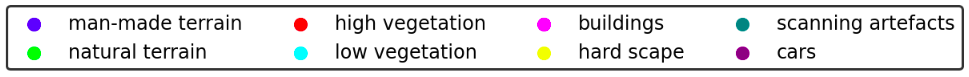
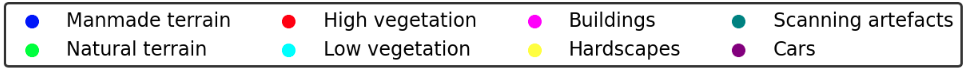
benchmark changes + results p1

diff --git a/project-report/chapters/ch06_results.tex b/project-report/chapters/ch06_results.tex
@@ -33,7 +33,7 @@
         \end{tabular}%
         }
         \caption{Illustration of performance of RandLA-Net on Semantic3D over ensemble size. meanIOU, IOU per-class and overall accuracy are represented here.
-        C1 to C8 are the classes of Semantic3D which are Manmadeterrain, Naturalterrain, Highvegetation, Lowvegetation, Buildings, Hardscapes, Scanningartifacts, and Cars.}
+        C1 to C8 are the classes of Semantic3D which are Manmade terrain, Natural terrain, High vegetation, Low vegetation, Buildings, Hardscapes, Scanning artifacts, and Cars.}
         \label{tab:ensemble_eval}
     \end{table} 
 
@@ -63,7 +63,7 @@
     % %%%%%% Ensembles output here %%%%%%
     \begin{figure*}[h!]
         \begin{tabular}{cccc}
-            1 & 5 & 10 \\
+            Ensmeble Size-1 & Ensemble Size-5 & Ensemble Size-10 \\
             \includegraphics[width=0.30\textwidth, height=0.15\textheight]{images/seg_output/deep_ensembles/1_1.pdf} &
             \includegraphics[width=0.30\textwidth, height=0.15\textheight]{images/seg_output/deep_ensembles/1_5.pdf}& 
             \includegraphics[width=0.30\textwidth, height=0.15\textheight]{images/seg_output/deep_ensembles/1_10.pdf}\\
@@ -76,7 +76,7 @@
         \caption{Performance improvements of Deep Ensembles on Semantic3D dataset with each column representing the ensemble size of 1, 5 and 10 respectively.}
         \label{fig:deepensemble_improv}
     \end{figure*}
-    From Table~\ref{tab:ensemble_eval}, we infer that classes Low vegetation and Hardscapes have lower per-class IoU scores, this is because of lack of training data.
+    From Table~\ref{tab:ensemble_eval}, we infer that classes ``Low vegetation'' and ``Hardscapes'' have lower per-class IoU scores, this is because these classes are underrepresented in the dataset.
     From Table~\ref{tab:ensemble_eval}, we also infer that the Deep Ensembles improve the model's overall performance in terms of meanIoU and Accuracy.
     With an ensemble size of 10, we observe a 2\% increment on meanIoU.
     An increase in ensemble size also results in an improvement in per-class IoU performance.
@@ -86,9 +86,9 @@
 %%%%%%%%%%%%%%%%%%%%%%%%%%%%%%%%%%%%%%%%%%%%%%%%%%%%%%%%%%%%%%%%%%%%%%%%%%%%%%%
     \section{Flipout-Semantic3D}
     In this experiment, we trained a Flipout version of RandLA-Net as described in Section~\ref{sec:flipout_setup} over the Semantic3D dataset.
-    Like Deep Ensembles, we performed 20 forward passes over the Flipout versioned RandLA-Net and averaged the predictions to obtain final predictions.
-    Table~\ref{tab:flipout_eval} describes the performance of Flipout versioned RandLA-Net using meanIoU, per-class IoU and Accuracy.
-    Figure~\ref{fig:flipout_vis_sem3d} depicts the predictions of the Flipout versioned RandLA-Net visually.
+    Like Deep Ensembles, we performed 20 forward passes over the Flipout-versioned RandLA-Net and averaged the predictions to obtain final predictions.
+    Table~\ref{tab:flipout_eval} describes the performance of Flipout-versioned RandLA-Net using meanIoU, per-class IoU and Accuracy.
+    Figure~\ref{fig:flipout_vis_sem3d} depicts the predictions of the Flipout-versioned RandLA-Net visually.
     \begin{table}[h!]
         \resizebox{\textwidth}{!}{%
         \begin{tabular}{c|c|cccccccc|c}
@@ -102,8 +102,8 @@
         20& 69.87 & 94.38&80.18&83.80&23.57&87.72&39.84&57.92&91.57&90.40\\
         \end{tabular}%
         }
-        \caption{Illustration of performance of Flipout versioned RandLA-Net on Semantic3D dataset. meanIOU, IOU per-class and overall accuracy are represented here.
-        C1 to C8 are the classes of Semantic3D which are Manmadeterrain, Naturalterrain, Highvegetation, Lowvegetation, Buildings, Hardscapes, Scanningartifacts, and Cars.}
+        \caption{Illustration of performance of Flipout-versioned RandLA-Net on Semantic3D dataset. meanIOU, IOU per-class and overall accuracy are represented here.
+        C1 to C8 are the classes of Semantic3D which are Manmade terrain, Natural terrain, High vegetation, Low vegetation, Buildings, Hardscapes, Scanning artifacts, and Cars.}
         \label{tab:flipout_eval}
     \end{table}
     \begin{figure*}[h!]
@@ -127,7 +127,7 @@
         \label{fig:flipout_vis_sem3d}
     \end{figure*}   
 
-    From Table~\ref{tab:flipout_eval}, we infer that the Flipout versioned RandLA-Net has a similar performance to the original RandLA-Net model proposed in \cite{Hu_2020_CVPR_Randla} and also Deep Ensembles with ensemble size one.
+    From Table~\ref{tab:flipout_eval}, we infer that the Flipout-versioned RandLA-Net has a similar performance to the original RandLA-Net model proposed in \cite{Hu_2020_CVPR_Randla} and also Deep Ensembles with ensemble size one.
     We also observe a significant improvement in the Hardscapes class represented as C6 in Table~\ref{tab:flipout_eval}.
     There is a decrement in performance of classes Lowvegetation represented as C4 and Scanningartifacts represented as C7 in Table~\ref{tab:flipout_eval}, keeping the overall meanIoU same.
     % \textcolour{red}{Add the images of flipout performance here same as figures in deep ensembles}
@@ -138,9 +138,9 @@
     In this section, we study the predictions of the RandLA-Net model on the S3DIS (Out-Of-Distribution) dataset using Deep Ensembles and Flipout.
     We also compare the distribution of Maximum Softmax Probability (MSP) and entropy scores for Semantic3D and S3DIS datasets.
 
-    Figure~\ref{fig:de_s3dis_vis} depict the predictions of the RandLA-Net model and Flipout versioned RandLA-Net.
+    Figure~\ref{fig:de_s3dis_vis} depict the predictions of the RandLA-Net model and Flipout-versioned RandLA-Net.
     We observe that most objects, such as ceilings and bookshelves, are labelled as buildings when using Deep Ensembles.
-    We also observe that most point clouds are labelled as hardscapes class when using Flipout versioned RandLA-Net.
+    We also observe that most point clouds are labelled as hardscapes class when using Flipout-versioned RandLA-Net.
     The classifications on S3DIS datasets are in triangles because of the property of the scanner.
     As discussed in Section~\ref{sec:dataset_s3dis}, data collected from the Matterport scanner is represented as triangular mesh, and then a point cloud is extracted from this mesh.
 
@@ -192,7 +192,7 @@
         \caption{}
         \label{fig:msp_flipout}
         \end{subfigure}
-        \caption{Graph representing the mean probability value as a dot for Semantic3D in green and S3DIS (OOD) in red. The variance is represented as the error bars.  (a) represents the mean probability value for various ensemble sizes and (b) represents the mean probability value for multiple forward passes on Flipout model.}
+        \caption{Graph representing the mean probability value as a dot for Semantic3D (ID) in green and S3DIS (OOD) in red. The variance is represented via the error bars.  (a) represents the mean probability value for various ensemble sizes and (b) represents the mean probability value for multiple forward passes on Flipout model.}
     \end{figure}
 
     From Figure~\ref{fig:msp_ensembles}, we can infer that as the increase in ensemble size, the mean probability of the ID (Semantic3D) dataset remains stable.
@@ -337,7 +337,7 @@
         \caption{}
         \label{fig:ent_flipout}
         \end{subfigure}
-        \caption{Graph representing the mean entropy value as a dot for Semantic3D in green and S3DIS (OOD) in red. The variance is represented as the error bars.  (a) represents the mean entropy value for various ensemble sizes and (b) represents the mean entropy value for multiple forward passes on Flipout model.}
+        \caption{Graph representing the mean entropy value as a dot for Semantic3D (ID) in green and S3DIS (OOD) in red. The variance is represented via the error bars.  (a) represents the mean entropy value for various ensemble sizes and (b) represents the mean entropy value for multiple forward passes on Flipout model.}
     \end{figure}
     \begin{figure*}[h!]
         \begin{tabular}{ccc}
@@ -619,7 +619,7 @@
         \end{tabular}
         \includegraphics[scale=0.45]{images/ent_legend.pdf}
         % \includegraphics[scale=0.45]{images/legend.png}
-        \caption{Representation of entropy map and its legend in first column and OOD map in second column generated using Deep Ensembles (ensemble size of 10) for S3DIS (OOD) dataset. In OOD map green represents ID points and red represents OOD points.}
+        \caption{Representation of entropy map and its legend in first column and OOD map in second column generated using Deep Ensembles (Ensemble size of 10) for S3DIS (OOD) dataset. In OOD map green represents ID points and red represents OOD points.}
         \label{fig:de_s3dis_oodmap_ent}
     \end{figure*}
     \begin{figure*}[h!]
@@ -690,11 +690,11 @@
         \end{tabular}%
         }
         \caption{Illustration of performance of RandLA-Net on Semantic3D without colour over number of ensembles. meanIOU, IOU per-class and overall accuracy are represented here.
-        C1 to C8 are the classes of Semantic3D which are Manmadeterrain, Naturalterrain, Highvegetation, Lowvegetation, Buildings, Hardscapes, Scanningartifacts, and Cars.}
+        C1 to C8 are the classes of Semantic3D which are Manmade terrain, Natural terrain, High vegetation, Low vegetation, Buildings, Hardscapes, Scanning artifacts, and Cars.}
         \label{tab:de_sem3dof_eval}
     \end{table}
-    In the comparison of Table~\ref{tab:de_sem3dof_eval} and Table~\ref{tab:ensemble_eval}, we derive that by removing the colours of the ID dataset, we observe a reduction in the meanIoU and Accuracy.
-    We also observe that the class Naturalterrain represented as green colour in Figure~\ref{fig:deepensemble_vis_sem3d_OF} takes a significant blow.
+    In the comparison of Table~\ref{tab:de_sem3dof_eval} and Table~\ref{tab:ensemble_eval}, we learn that by removing the colours of the ID dataset, we observe a reduction in the meanIoU and Accuracy.
+    We also observe that the class Natural terrain represented as green colour in Figure~\ref{fig:deepensemble_vis_sem3d_OF} suffers from significant misclassification.
     This reduction in performance can be correlated with figures in row two of Figure~\ref{fig:deepensemble_vis_sem3d_OF} where the vegetation between the road and fence depicted in the first image is misclassified in the second image.
     Row two also shows the misclassification of a major fence part as a building.
     On further evaluation of such results, we deduce that in case of no colour information, the object's height is one of the significant factors for the classification.
@@ -713,7 +713,7 @@
         \end{tabular}
         \includegraphics[scale=0.45]{images/legend.png}
         \caption{Output predictions of the RandLA-Net over the Semantic3D dataset and Semantic3D without colour
-         dataset using Deep Ensembles (ensemble size of 10).}
+         dataset using Deep Ensembles (Ensemble size of 10).}
         \label{fig:deepensemble_vis_sem3d_OF}
     \end{figure*}
     
@@ -735,8 +735,8 @@
         20& 49.02&79.69&6.65&64.87&23.57&85.62&16.06&47.14&68.56&79.00\\
         \end{tabular}%
         }
-        \caption{Illustration of performance of Flipout versioned RandLA-Net on Semantic3D without colour over number of ensembles. meanIOU, IOU per-class and overall accuracy are represented here.
-        C1 to C8 are the classes of Semantic3D which are Manmadeterrain, Naturalterrain, Highvegetation, Lowvegetation, Buildings, Hardscapes, Scanningartifacts, and Cars.}
+        \caption{Illustration of performance of Flipout-versioned RandLA-Net on Semantic3D without colour over number of ensembles. meanIOU, IOU per-class and overall accuracy are represented here.
+        C1 to C8 are the classes of Semantic3D which are Manmade terrain, Natural terrain, High vegetation, Low vegetation, Buildings, Hardscapes, Scanning artifacts, and Cars.}
         \label{tab:fout_sem3dof_eval}
     \end{table}
 
@@ -770,7 +770,7 @@
     Figure~\ref{fig:msp_ensembles_ood_2} and Figure~\ref{fig:msp_flipout_ood_2} depict the mean probability value for the ID and the OOD dataset along with the variance represented as error bars for Deep Ensembles and Flipout respectively.
     Figure~\ref{fig:de_probmap_vis_sem3d_OF} and Figure~\ref{fig:fout_probmap_vis_sem3d_OF} represent the probability map of ID and OOD datasets for Deep Ensembles and Flipout respectively.
 
-    From the plots represented in Figure~\ref{fig:msp_ensembles_ood_2}, we observe that ID has a higher mean probability with lower variance decreasing till ensemble size of 10 and then stabilizing.
+    From the plots represented in Figure~\ref{fig:msp_ensembles_ood_2}, we observe that ID has a higher mean probability with lower variance decreasing until ensemble size of 10 and then stabilizing.
     Whereas for the OOD dataset represented in red lines, we observe a bit lower mean probability and higher variance with much overlap with the ID probability values.
     A plot for Flipout represented in Figure~\ref{fig:msp_flipout_ood_2} has a similar distribution of probability values.
     The difference in mean probability between ID and OOD for Flipout is slight and similar variance.
@@ -792,7 +792,7 @@
         \caption{}
         \label{fig:msp_flipout_ood_2}
         \end{subfigure}
-        \caption{Graph representing the mean probability value as a dot for Semantic3D in green and Semantic3D without colour (OOD) in red. The variance is represented as the error bars.  (a) represents the mean probability value for various ensemble sizes and (b) represents the mean probability value for multiple forward passes on Flipout model.}
+        \caption{Graph representing the mean probability value as a dot for Semantic3D (ID) in green and Semantic3D without colour (OOD) in red. The variance is represented via the error bars.  (a) represents the mean probability value for various ensemble sizes and (b) represents the mean probability value for multiple forward passes on Flipout model.}
     \end{figure}
     \begin{figure*}[h!]
         \centering
@@ -808,7 +808,7 @@
             \includegraphics[width=0.33\textwidth, height=0.18\textheight]{images/sem3d_of/de_prob_sem3d_of_3.pdf}\\
         \end{tabular}
         \includegraphics[scale=0.45]{images/prob_legend.pdf}
-        \caption{Per point probability comparison between Semantic3D (ID) and Semantic3D without colour (OOD) dataset estimated using Deep Ensembles (ensemble size of 10)}
+        \caption{Per point probability comparison between Semantic3D (ID) and Semantic3D without colour (OOD) dataset estimated using Deep Ensembles (Ensemble size of 10)}
         \label{fig:de_probmap_vis_sem3d_OF}
     \end{figure*}
     \begin{figure*}[h!]
@@ -856,7 +856,7 @@
         \caption{}
         \label{fig:ent_flipout_ood_2}
         \end{subfigure}
-        \caption{Graph representing the mean entropy value as a dot for Semantic3D in Semantic3D without colour and S3DIS (OOD) in red. The variance is represented as the error bars.  (a) represents the mean entropy value for various ensemble sizes and (b) represents the mean entropy value for multiple forward passes on Flipout model.}
+        \caption{Graph representing the mean entropy value as a dot for Semantic3D in Semantic3D without colour and S3DIS (OOD) in red. The variance is represented via the error bars.  (a) represents the mean entropy value for various ensemble sizes and (b) represents the mean entropy value for multiple forward passes on Flipout model.}
     \end{figure}
     \begin{figure*}[h!]
         \centering
@@ -872,7 +872,7 @@
             \includegraphics[width=0.33\textwidth, height=0.18\textheight]{images/sem3d_of/de_ent_sem3d_of_3.pdf}\\
         \end{tabular}
         \includegraphics[scale=0.45]{images/ent_legend.pdf}
-        \caption{Per point entropy comparison between Semantic3D (ID) and Semantic3D without colour (OOD) dataset estimated using Deep Ensembles (ensemble size of 10)}
+        \caption{Per point entropy comparison between Semantic3D (ID) and Semantic3D without colour (OOD) dataset estimated using Deep Ensembles (Ensemble size of 10)}
         \label{fig:de_entmap_vis_sem3d_OF}
     \end{figure*}
     \begin{figure*}[h!]
@@ -949,7 +949,7 @@
             \includegraphics[width=0.33\textwidth, height=0.18\textheight]{images/ood_imgs/sem3d_of/prob/de_sem3d_of_OOD_3.pdf}\\
         \end{tabular}
         % \includegraphics[scale=0.45]{images/prob_legend.pdf}
-        \caption{OOD maps for Semantic3D (ID) dataset in first column and Semantic3D without colour (OOD) in second column estimated using probability map from Deep Ensembles (ensemble size of 10).}
+        \caption{OOD maps for Semantic3D (ID) dataset in first column and Semantic3D without colour (OOD) in second column estimated using probability map from Deep Ensembles (Ensemble size of 10).}
         \label{fig:de_oodmap_sem3d_OF_prob}
     \end{figure*}
 
@@ -985,7 +985,7 @@
             \includegraphics[width=0.33\textwidth, height=0.18\textheight]{images/ood_imgs/sem3d_of/ent/de_sem3d_of_OOD_3.pdf}\\
         \end{tabular}
         % \includegraphics[scale=0.45]{images/prob_legend.pdf}
-        \caption{OOD maps for Semantic3D (ID) dataset in first column and Semantic3D without colour (OOD) in second column estimated using entropy map from Deep Ensembles (ensemble size of 10).}
+        \caption{OOD maps for Semantic3D (ID) dataset in first column and Semantic3D without colour (OOD) in second column estimated using entropy map from Deep Ensembles (Ensemble size of 10).}
         \label{fig:de_oodmap_sem3d_OF_ent}
     \end{figure*}
 

diff --git a/project-report/chapters/ch03_benchmark.tex b/project-report/chapters/ch03_benchmark.tex
@@ -3,12 +3,12 @@
 \begin{document}
     \chapter{Datasets and Benchmarking}
     \label{ch:benchmark}
-    This chapter discusses the training In Distribution dataset (Semantic3D) and proposes two Out Of Distribution (OOD) benchmark datasets Semantic3D vs S3DIS and Semantic3D vs Semantic3D without colour.
+    This chapter discusses training ID dataset (Semantic3D) and proposes two OOD benchmark datasets Semantic3D-vs-S3DIS and Semantic3D-vs-Semantic3D without colour.
     \section{Semantic3D}
     \label{sec:dataset_sem3d}
     Semantic3D is a huge 3D  point cloud benchmark classification dataset, and Semantic3D is classified as a static dataset.
     The dataset consists of nearly 4 billion points containing a variety of scenes in urban and rural settings.
-    These scenes are taken in markets, dom, stations and fields collected in European streets with terrestrial lasers.
+    These scenes are taken in markets, dom (church), stations and fields collected in European streets with terrestrial lasers.
     Each point in the point cloud consists of geometric positions (x, y, and z), colour (R, G, and B) and intensity values as features.
     Example point cloud scenes are provided in Figure \ref{fig:sem3d_gt_vis}. 
     
@@ -34,7 +34,7 @@ Because of these reasons, we considered using the Semantic3D dataset as In Distr
 The dataset is available to download on \footnote[1]{http://www.semantic3d.net/}. 
 As this is an ongoing benchmark challenge, the labels for the testing data are not available.
 We used a validation set for evaluation purposes, a subset of the training set.
-Finally, Figure~\ref{fig:sem3d_gt_vis} represents the various scenes in the Semantic3D dataset, with the first column the point cloud and ground truth as the second column.
+Figure~\ref{fig:sem3d_gt_vis} represents the various scenes in the Semantic3D dataset, with the first column the point cloud and ground truth as the second column.
 \begin{figure}[h!]
     \centering
     \includestandalone[width=0.6\linewidth]{images/Sem3d_points}
@@ -65,13 +65,13 @@ Finally, Figure~\ref{fig:sem3d_gt_vis} represents the various scenes in the Sema
     \end{tabular}
     \includegraphics[scale=0.45]{images/legend.png}
     \caption{Illustration of the Semantic3D point clouds in training and validation set with first column representing the point cloud 
-    and second column their repective ground truth with legend for ground truth given in last image.}
+    and second column their repective ground truth (semantic labels) with legend for ground truth given in last image.}
     \label{fig:sem3d_gt_vis}
 \end{figure*}
 
 \section{S3DIS}
 \label{sec:dataset_s3dis}
-S3DIS is an indoor dataset with scans from three different buildings covering 6020 square meters.
+S3DIS is an indoor dataset with scans from three different buildings covering 6,020 square meters.
 These scans include personal offices, restrooms, open spaces, lobbies and hallways.
 The scans are generated using a Matterport 3D scanner as a triangular mesh shown in Figure~\ref{fig:how_matterport_works} and then the point cloud is extracted.
 S3DIS dataset is divided into 12 classes, further divided into two subclasses.
@@ -106,22 +106,39 @@ Along with the ShapeNet dataset \cite{chang2015shapenet}, S3DIS is also one of t
     \label{fig:how_matterport_works}
 \end{figure}
 \section{OOD Benchmarking}
-This section discusses benchmarked datasets and argues why they are chosen as benchmarking datasets.
-We provided two benchmark datasets, one being Semantic3D vs S3DIS and Semantic3D vs Semantic3D without colour.
+This section discusses benchmark datasets and argues why these datasets are chosen.
+We provided two benchmark datasets, one being Semantic3D-vs-S3DIS and Semantic3D-vs-Semantic3D without colour.
+In addition to this section, Table~\ref{tab:OOD_reasons} represents the benchmark datasets and the reasons for choosing the OOD dataset.
 
 \subsection{Semantic3D vs S3DIS}
 We chose Semantic3D as the training (In-Distribution (ID)) dataset for the following reasons.
 Semantic3D is a static dataset which means the high density of points in a scan compared to sequential datasets.
-Semantic3D also has RGB colours as input features and XYZ and intensity values.
-Having RGB in the dataset helps differentiate the Out-Of-Distribution (OOD) points from ID points.
+Semantic3D also has RGB colours as input features apart from XYZ and intensity values.
+Having RGB in the dataset helps differentiate the Out-of-Distribution (OOD) points from ID points.
 Semantic3D has only eight training classes with outdoor scenes, and this helps in better understanding the predictions on the OOD dataset.
+Semantic3D is an ongoing benchmark challenge, so we evaluated our trained on the validation set.
+For a sanity check, we cross-checked the performance of our trained models on this validation set with the pretrained model from the authors provided in \footnote[1]{https://github.com/QingyongHu/RandLA-Net}.
+
 S3DIS is an indoor dataset with scans generated in a building.
 This difference in scenes (outdoor vs indoor) makes it an ideal dataset benchmark to study.
-We expect the Semantic3D trained model to detect OOD (S3DIS) dataset with relative ease and high confidence because of the enormous difference in structural similarity between the datasets and different colour values.
+We expect the Semantic3D trained model to detect the S3DIS dataset as OOD with relative ease and high confidence because of the enormous difference in structural similarity between the datasets and different colour values.
 
 \subsection{Semantic3D vs Semantic3D without color}
 Our hypothesis is that the colour information plays a major role in defining OOD objects.
-To ensure the structural similarity between the objects being intact and having different colors, we decided to use Semantic3D without colour as OOD dataset.
+To ensure, the structural similarity between the objects being intact and having different colors, we decided to use Semantic3D without colour as OOD dataset.
 For this we coloured the Semantic3D point cloud with uniform gray color and fed to the model for inference.
 We expect the OOD detection performance to struggle in this case, as the data is similar to the training data.
+
+\begin{table}[h!]
+    \resizebox{\textwidth}{!}{%
+    \begin{tabular}{cccc}
+    ID dataset                   & OOD dataset          &  OOD detection difficulty  & Summary                                                                                                                                                                             \\ \hline
+    \multirow{2}{*}{Semantic 3D} & S3DIS                & Easy    & \multicolumn{1}{l}{\begin{tabular}[c]{@{}l@{}}1. No class overlap\\ 2. Less structural similarity\\ 3. Different domain(outdoor vs indoor)\end{tabular}} \\ \cline{2-4} 
+                                 & Semantic3D without color & Hard & \multicolumn{1}{l}{\begin{tabular}[c]{@{}l@{}}1. Same structural properties\\ 2. Difference in RGB values\\ 3. Same domain as ID dataset\\ 4. Same classes\end{tabular}}     \\ \hline
+                                                                                                                                                                                   
+    \end{tabular}
+    }
+    \caption{Table representing the ID dataset and corresponding OOD datasets, Difficulty in OOD detection and the summary of reasons to chose this OOD dataset.}
+    \label{tab:OOD_reasons}
+    \end{table}
 \end{document}

diff --git a/project-report/chapters/ch05_experimental_setup.tex b/project-report/chapters/ch05_experimental_setup.tex
@@ -8,11 +8,11 @@
     % In this thesis, we used the RandLA-Net model for 3D semantic segmentation proposed in \cite{Hu_2020_CVPR_Randla}.
     % Section 2.1 describes the detailed working of RandLA-Net. 
 
-    \textcolor{red}{Merge this section to Datasets and Benchmarking chapter}
-    \section{Dataset}
-    In this thesis, we used Semantic3D as training dataset and more about the dataset is discussed in Section~\ref{sec:dataset_sem3d}.
-    Semantic3D is an ongoing benchmark challenge, so we evaluated our trained on the validation set.
-    For a sanity check, we cross-checked the performance of our trained models on this validation set with the pretrained model from the authors provided in \footnote[1]{https://github.com/QingyongHu/RandLA-Net}.
+    %\textcolor{red}{Merge this section to Datasets and Benchmarking chapter}
+    %\section{Dataset}
+    %In this thesis, we used Semantic3D as training dataset and more about the dataset is discussed in Section~\ref{sec:dataset_sem3d}.
+    %Semantic3D is an ongoing benchmark challenge, so we evaluated our trained on the validation set.
+    %For a sanity check, we cross-checked the performance of our trained models on this validation set with the pretrained model from the authors provided in \footnote[1]{https://github.com/QingyongHu/RandLA-Net}.
 
     \section{Training parameters}
     This section will discuss the libraries used and training parameters of the RandLA-Net for Deep Ensembles, and Flipout.    The training and testing of Deep Neural Networks are time and resource-intensive.
